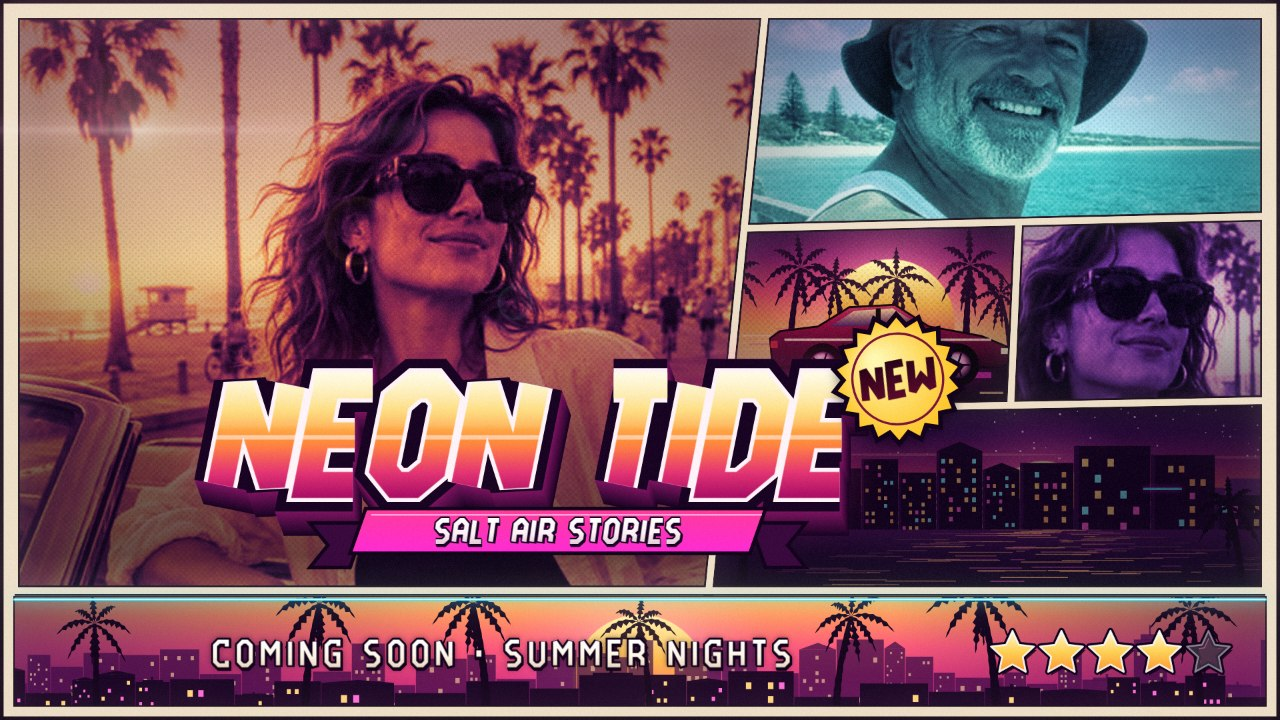
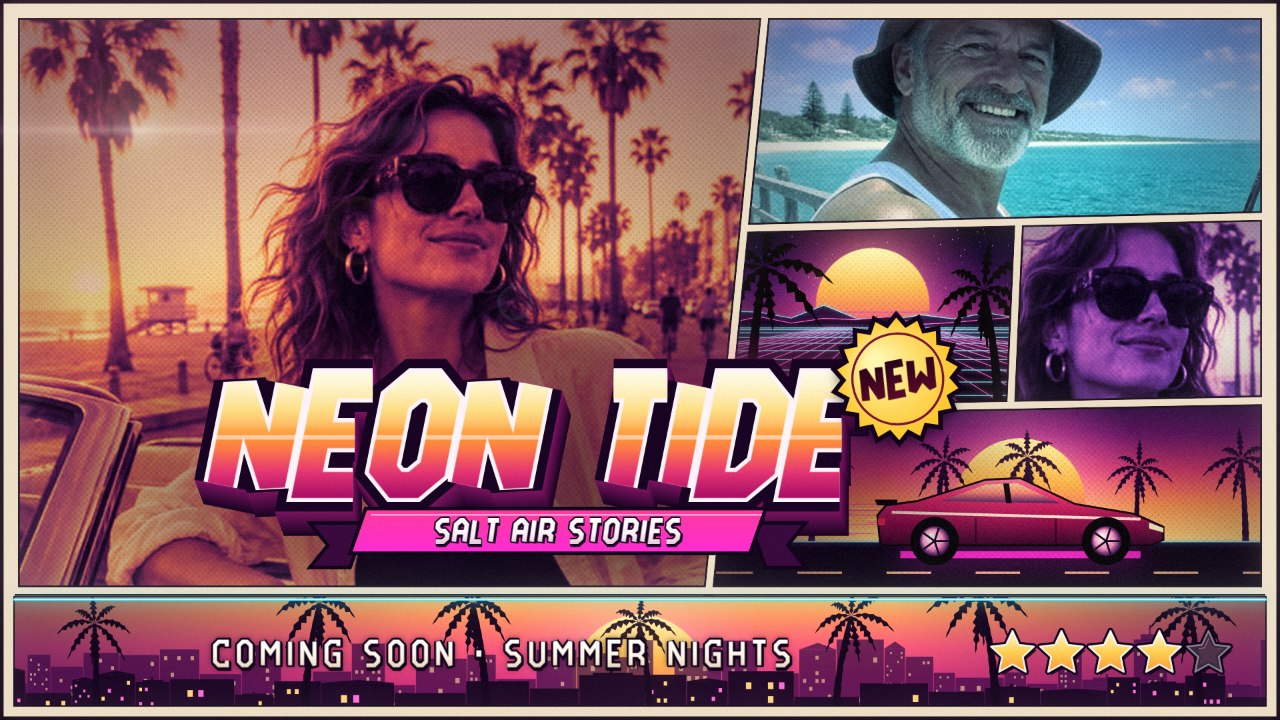
feat: warmer teal tint, fastback coupe, title shade ellipse, gallery sheet test, responsive grids

diff --git a/app/src/scenes/sunsetCruiser.js b/app/src/scenes/sunsetCruiser.js
@@ -28,52 +28,57 @@ function paintWheel(ctx, x, y, r) {
   ctx.stroke();
 }
 
-/** The coupe body, nose to the right, `len` px long, wheels resting on `ground`, centred on x. */
+/** Fills a closed polygon of [x, y] points. */
+function fillShape(ctx, points) {
+  ctx.beginPath();
+  points.forEach(([px, py], i) => (i ? ctx.lineTo(px, py) : ctx.moveTo(px, py)));
+  ctx.closePath();
+  ctx.fill();
+}
+
+/** A low fastback coupe, nose to the right, `len` px long, wheels resting on `ground`, centred on x. */
 function paintCoupe(ctx, x, ground, len, preset) {
   const u = len / 100;
   const left = x - 50 * u;
   const p = (px, py) => [left + px * u, ground - py * u];
-  const body = [p(1, 8), p(0, 19), p(4, 22), p(20, 24), p(33, 32), p(52, 33), p(66, 24), p(88, 20), p(100, 15),
-    p(100, 9), p(96, 7), p(4, 7)];
   ctx.save();
   ctx.shadowColor = preset.neon[0];
-  ctx.shadowBlur = len * 0.08;
+  ctx.shadowBlur = len * 0.1;
   ctx.fillStyle = preset.neon[0];
-  ctx.fillRect(left + 8 * u, ground - 5 * u, 84 * u, 2.5 * u);
+  ctx.fillRect(left + 8 * u, ground - 4.5 * u, 84 * u, 2.5 * u);
   ctx.restore();
-  const paint = ctx.createLinearGradient(0, ground - 40 * u, 0, ground - 8 * u);
-  paint.addColorStop(0, '#ff5c8a');
-  paint.addColorStop(0.45, '#c3125a');
+  const paint = ctx.createLinearGradient(0, ground - 31 * u, 0, ground - 6 * u);
+  paint.addColorStop(0, '#ff8ab0');
+  paint.addColorStop(0.3, '#ff2f6e');
+  paint.addColorStop(0.65, '#b0104e');
   paint.addColorStop(1, '#3d0626');
   ctx.fillStyle = paint;
-  ctx.beginPath();
-  body.forEach(([bx, by], i) => (i ? ctx.lineTo(bx, by) : ctx.moveTo(bx, by)));
-  ctx.closePath();
-  ctx.fill();
+  const body = [p(1, 7), p(0, 17), p(3, 20.5), p(14, 22), p(38, 29.5), p(50, 30), p(69, 21), p(90, 17.5),
+    p(100, 13), p(100, 8.5), p(96, 6.5), p(4, 6.5)];
+  fillShape(ctx, body);
   ctx.strokeStyle = '#14020c';
-  ctx.lineWidth = Math.max(1, u * 0.8);
+  ctx.lineWidth = Math.max(1, u * 0.7);
   ctx.stroke();
-  const glass = ctx.createLinearGradient(0, ground - 32 * u, 0, ground - 24 * u);
-  glass.addColorStop(0, '#ffd6a0');
-  glass.addColorStop(1, '#5a2a7a');
+  const glass = ctx.createLinearGradient(0, ground - 29 * u, 0, ground - 21 * u);
+  glass.addColorStop(0, '#ffe0a8');
+  glass.addColorStop(0.5, '#ff8a7a');
+  glass.addColorStop(1, '#4a1a6a');
   ctx.fillStyle = glass;
-  ctx.beginPath();
-  [p(25, 24), p(35, 30.5), p(51, 31.5), p(62, 24.5)].forEach(([gx, gy], i) => (i ? ctx.lineTo(gx, gy) : ctx.moveTo(gx, gy)));
-  ctx.closePath();
-  ctx.fill();
+  fillShape(ctx, [p(22, 22), p(38, 27.8), p(49, 28.2), p(64, 21.2)]);
   ctx.fillStyle = '#14020c';
-  ctx.fillRect(left + 44 * u, ground - 31.5 * u, 2 * u, 7.5 * u);
-  ctx.fillStyle = 'rgba(255, 240, 220, 0.85)';
-  ctx.fillRect(left + 6 * u, ground - 19 * u, 86 * u, 1 * u);
-  ctx.fillStyle = 'rgba(20, 2, 12, 0.6)';
-  ctx.fillRect(left + 30 * u, ground - 17 * u, 0.8 * u, 9 * u);
-  ctx.fillRect(left + 58 * u, ground - 17 * u, 0.8 * u, 9 * u);
+  fillShape(ctx, [p(44, 28.1), p(46, 28.2), p(47, 21.2), p(45, 21.2)]);
+  fillShape(ctx, [p(0, 20.5), p(7, 20.5), p(7, 22.5), p(-1, 22.5)]);
+  ctx.fillStyle = 'rgba(255, 245, 230, 0.9)';
+  fillShape(ctx, [p(5, 17.6), p(92, 15.2), p(92, 16.2), p(5, 18.6)]);
+  ctx.fillStyle = 'rgba(20, 2, 12, 0.55)';
+  ctx.fillRect(left + 34 * u, ground - 16 * u, 0.7 * u, 8.5 * u);
+  ctx.fillRect(left + 62 * u, ground - 16 * u, 0.7 * u, 8.5 * u);
   ctx.fillStyle = '#fff6c8';
-  ctx.fillRect(left + 96 * u, ground - 15 * u, 4 * u, 2.5 * u);
+  fillShape(ctx, [p(95, 14.5), p(100, 12.6), p(100, 11), p(95, 12.4)]);
   ctx.fillStyle = '#ff2b4a';
-  ctx.fillRect(left + 0.2 * u, ground - 18 * u, 3 * u, 3 * u);
-  paintWheel(ctx, left + 22 * u, ground - 8 * u, 9 * u);
-  paintWheel(ctx, left + 78 * u, ground - 8 * u, 9 * u);
+  ctx.fillRect(left + 0.2 * u, ground - 16 * u, 2.5 * u, 2.5 * u);
+  paintWheel(ctx, left + 20 * u, ground - 8 * u, 8.5 * u);
+  paintWheel(ctx, left + 80 * u, ground - 8 * u, 8.5 * u);
 }
 
 /** Paints the coast-road scene into a w x h context. */

diff --git a/app/src/ui/shotScenes.js b/app/src/ui/shotScenes.js
@@ -17,11 +17,11 @@ export function shotState(boulevard, pier) {
     seed: 7,
     panels: [
       { source: photo(boulevard), crop: crop(1, 0.55, 0.3), tint: 'flamingo' },
-      { source: photo(pier), crop: crop(1.5, 0.42, 0.3), tint: 'lagoon' },
-      { source: scene('cruiser'), crop: crop(1, 0.5, 0.5) },
-      { source: photo(boulevard), crop: crop(2.6, 0.58, 0.2), tint: 'ultraviolet' },
-      { source: scene('skyline'), crop: crop(1, 0.5, 0.5) },
+      { source: photo(pier), crop: crop(1.22, 0.45, 0.3), tint: 'lagoon' },
       { source: scene('neonGrid'), crop: crop(1, 0.5, 0.5) },
+      { source: photo(boulevard), crop: crop(2.6, 0.58, 0.2), tint: 'ultraviolet' },
+      { source: scene('cruiser'), crop: crop(1, 0.5, 0.5) },
+      { source: scene('skyline'), crop: crop(1, 0.5, 0.5) },
       { source: photo(pier), crop: crop(2, 0.8, 0.6), tint: 'ultraviolet' },
     ],
     text: {
@@ -43,7 +43,13 @@ function blobToDataUrl(blob) {
   });
 }
 
-/** Installs the export hook the harness calls; `getState` and `photos` are the editor's live ones. */
+/**
+ * Installs the export hook the harness calls; `getState` and `photos` are the editor's live ones. `patch` (for the
+ * gallery sheet) overrides top-level state fields such as layout or preset.
+ */
 export function installShotHooks(getState, photos) {
-  window.__exportCover = async (w, h) => blobToDataUrl(await renderCoverPng(getState(), photos, w, h));
+  window.__exportCover = async (w, h, patch = {}) => {
+    const state = normaliseState({ ...getState(), ...patch });
+    return blobToDataUrl(await renderCoverPng(state, photos, w, h));
+  };
 }

diff --git a/app/style.css b/app/style.css
@@ -81,7 +81,7 @@ input[type=range] { accent-color: var(--pink); }
 .dropzone span { color: var(--muted); font-size: 11px; }
 .dropzone input { display: none; }
 body.dragging .dropzone, .dropzone:hover { background: rgba(255, 79, 163, 0.18); }
-.tray { display: grid; grid-template-columns: repeat(4, 1fr); gap: 5px; margin-top: 8px; }
+.tray { display: grid; grid-template-columns: repeat(auto-fill, minmax(50px, 1fr)); gap: 5px; margin-top: 8px; }
 .tray .thumb {
   position: relative; aspect-ratio: 1; border-radius: 6px; overflow: hidden; border: 1px solid var(--line);
   cursor: grab; background: #000;
@@ -96,7 +96,7 @@ body.dragging .dropzone, .dropzone:hover { background: rgba(255, 79, 163, 0.18);
   padding: 0 4px; border-radius: 4px;
 }
 
-.layout-grid { display: grid; grid-template-columns: repeat(3, 1fr); gap: 5px; }
+.layout-grid { display: grid; grid-template-columns: repeat(auto-fill, minmax(66px, 1fr)); gap: 5px; }
 .layout-grid button { padding: 4px; display: flex; flex-direction: column; align-items: center; gap: 2px; }
 .layout-grid button canvas { width: 100%; height: auto; display: block; }
 .layout-grid button span { font-size: 10px; font-weight: 600; color: var(--muted); }
@@ -138,4 +138,5 @@ body.dragging .dropzone, .dropzone:hover { background: rgba(255, 79, 163, 0.18);
   .topbar { flex-wrap: wrap; }
   .workspace { grid-template-columns: 1fr; }
   .stage { order: -1; min-height: 50vh; }
+  .tray, .layout-grid { grid-template-columns: repeat(auto-fill, minmax(72px, 96px)); }
 }

diff --git a/app/src/engine/renderCover.js b/app/src/engine/renderCover.js
@@ -43,21 +43,23 @@ export function captionPlace(geometry, state) {
   };
 }
 
-/** A soft dark band behind the title, inside the panel area, so the letters read over any photo. */
+/** A soft dark ellipse behind the title, inside the panel area, so the letters read over any photo. */
 function drawTitleShade(ctx, geometry, place) {
   const { area } = geometry;
-  const half = place.maxHeight * 1.05;
+  const ry = place.maxHeight * 1.15;
+  const rx = place.maxWidth * 0.62;
   ctx.save();
   ctx.beginPath();
   ctx.rect(area.x, area.y, area.w, area.h);
   ctx.clip();
-  const band = ctx.createLinearGradient(0, place.cy - half, 0, place.cy + half * 1.25);
-  band.addColorStop(0, 'rgba(14, 2, 26, 0)');
-  band.addColorStop(0.45, 'rgba(14, 2, 26, 0.5)');
-  band.addColorStop(0.75, 'rgba(14, 2, 26, 0.55)');
-  band.addColorStop(1, 'rgba(14, 2, 26, 0)');
-  ctx.fillStyle = band;
-  ctx.fillRect(area.x, place.cy - half, area.w, half * 2.25);
+  ctx.translate(place.cx, place.cy + ry * 0.12);
+  ctx.scale(rx / ry, 1);
+  const shade = ctx.createRadialGradient(0, 0, 0, 0, 0, ry);
+  shade.addColorStop(0, 'rgba(14, 2, 26, 0.62)');
+  shade.addColorStop(0.55, 'rgba(14, 2, 26, 0.45)');
+  shade.addColorStop(1, 'rgba(14, 2, 26, 0)');
+  ctx.fillStyle = shade;
+  ctx.fillRect(-ry, -ry, ry * 2, ry * 2);
   ctx.restore();
 }
 

diff --git a/app/src/grade/presets.js b/app/src/grade/presets.js
@@ -1,9 +1,13 @@
 // Colour grade presets: the gradient-map tints panels cycle through, and each preset's effect and frame settings.
 
-/** Gradient maps from shadow to highlight; a panel's tint picks one. */
+/** Gradient maps from shadow to highlight; a panel's tint picks one. `strength` scales the preset's map mix. */
 export const TINTS = {
   flamingo: { label: 'Flamingo', stops: ['#12021c', '#4c0f5e', '#b8236f', '#ff5a5a', '#ff9a4a', '#ffd08a'] },
-  lagoon: { label: 'Lagoon', stops: ['#03101d', '#0a3550', '#127a88', '#38c9bd', '#9ce6dc', '#ddfaf2'] },
+  lagoon: {
+    label: 'Lagoon',
+    strength: 0.62,
+    stops: ['#03101d', '#0a3550', '#127a88', '#38c9bd', '#9ce6dc', '#ddfaf2'],
+  },
   ultraviolet: { label: 'Ultraviolet', stops: ['#0a031f', '#2a0e5e', '#5e27c4', '#b54ff2', '#ffa6ee', '#fff0fd'] },
   ember: { label: 'Ember', stops: ['#180404', '#561206', '#b8351a', '#ff7f2a', '#ffcb72', '#fff5df'] },
   rose: { label: 'Rose', stops: ['#1a0612', '#5a1040', '#c0377a', '#ff86bd', '#ffd6ea', '#fff8fb'] },
@@ -24,7 +28,7 @@ export const PRESETS = {
     tints: ['flamingo', 'lagoon', 'ember', 'ultraviolet', 'flamingo', 'rose', 'lagoon'],
     mapMix: 0.72,
     contrast: 1.26,
-    saturation: 1.15,
+    saturation: 1.3,
     duotone: false,
     bloom: 0.45,
     grain: 0.07,

diff --git a/app/index.html b/app/index.html
@@ -19,7 +19,8 @@
     <button type="button" id="redo" title="Redo (Ctrl+Shift+Z)">Redo</button>
     <button type="button" id="randomise" title="Shuffle layout, grade and crops (R)">Shuffle</button>
     <button type="button" id="exportOne" class="primary" title="Export this size as PNG (E)">Export PNG</button>
-    <button type="button" id="exportAll" class="primary ghost" title="Export all three sizes (Shift+E)">All 3 sizes</button>
+    <button type="button" id="exportAll" class="primary ghost" title="Export all three sizes (Shift+E)">
+      All 3 sizes</button>
   </div>
 </header>
 <main class="workspace">

diff --git a/app/src/ui/editor.js b/app/src/ui/editor.js
@@ -101,7 +101,8 @@ export async function startEditor(query) {
   };
   /** Loads files; one file dropped on a panel goes there, otherwise every panel is refilled. */
   const addFiles = async (files, panelIndex = -1) => {
-    const images = files.filter((file) => file.type.startsWith('image/') || /\.(jpe?g|png|webp|gif|avif)$/i.test(file.name));
+    const isImage = (file) => file.type.startsWith('image/') || /\.(jpe?g|png|webp|gif|avif)$/i.test(file.name);
+    const images = files.filter(isImage);
     if (!images.length) {
       status('Those files are not images');
       return;

diff --git a/app/src/ui/gradeControls.js b/app/src/ui/gradeControls.js
@@ -72,7 +72,9 @@ export function bindGradeControls(app) {
 
   return function sync(state) {
     const resolved = resolvePreset(state);
-    presetButtons.forEach((button) => button.setAttribute('aria-pressed', String(button.dataset.preset === state.preset)));
+    presetButtons.forEach((button) => {
+      button.setAttribute('aria-pressed', String(button.dataset.preset === state.preset));
+    });
     frame.value = state.frame ?? '';
     duotone.checked = resolved.duotone;
     for (const [key, input] of inputs) input.value = String(resolved[key]);

diff --git a/app/src/engine/coverState.js b/app/src/engine/coverState.js
@@ -53,7 +53,9 @@ export function defaultState() {
 }
 
 const pick = (value, allowed, fallback) => (allowed.includes(value) ? value : fallback);
-const clampNumber = (value, lo, hi, fallback) => (Number.isFinite(value) ? Math.max(lo, Math.min(hi, value)) : fallback);
+function clampNumber(value, lo, hi, fallback) {
+  return Number.isFinite(value) ? Math.max(lo, Math.min(hi, value)) : fallback;
+}
 
 /** A panel source: { type: 'photo', id } or { type: 'scene', id } or null. */
 function normaliseSource(source) {

diff --git a/app/src/photo/photoLoader.js b/app/src/photo/photoLoader.js
@@ -69,7 +69,8 @@ export async function loadPhoto(blob, name = 'photo') {
   bitmap.close();
   counter += 1;
   const id = `p${counter}`;
-  return { id, name, image: canvas, width: outW, height: outH, key: `${id}:${outW}x${outH}`, thumb: thumbnailOf(canvas) };
+  const key = `${id}:${outW}x${outH}`;
+  return { id, name, image: canvas, width: outW, height: outH, key, thumb: thumbnailOf(canvas) };
 }
 
 /** Fetches an image bundled with the app (the samples) and loads it like a dropped file. */

diff --git a/app/src/engine/panelPainter.js b/app/src/engine/panelPainter.js
@@ -75,7 +75,7 @@ export function panelLayer(panel, slot, bw, bh, photos, preset, seed, coverW) {
   const sceneMix = preset.duotone ? preset.mapMix : preset.mapMix * 0.22;
   applyGradientMap(image, {
     lut: lutFor(tint, preset.duotone),
-    mapMix: photo ? preset.mapMix : sceneMix,
+    mapMix: photo ? preset.mapMix * (preset.duotone ? 1 : TINTS[tint]?.strength ?? 1) : sceneMix,
     contrast: photo ? preset.contrast : 1.04,
     saturation: photo ? preset.saturation : 1.05,
   });

diff --git a/app/src/scenes/sceneKit.js b/app/src/scenes/sceneKit.js
@@ -1,4 +1,4 @@
-// Shared brushes for the painted filler scenes: banded skies, star fields, city blocks with lit windows, glinting water.
+// Shared brushes for the painted filler scenes: skies, stars, city blocks with lit windows, glinting water, neon.
 
 /** Fills [0, bottom) with a vertical gradient through evenly spaced colours. */
 export function paintSky(ctx, w, bottom, colours) {
